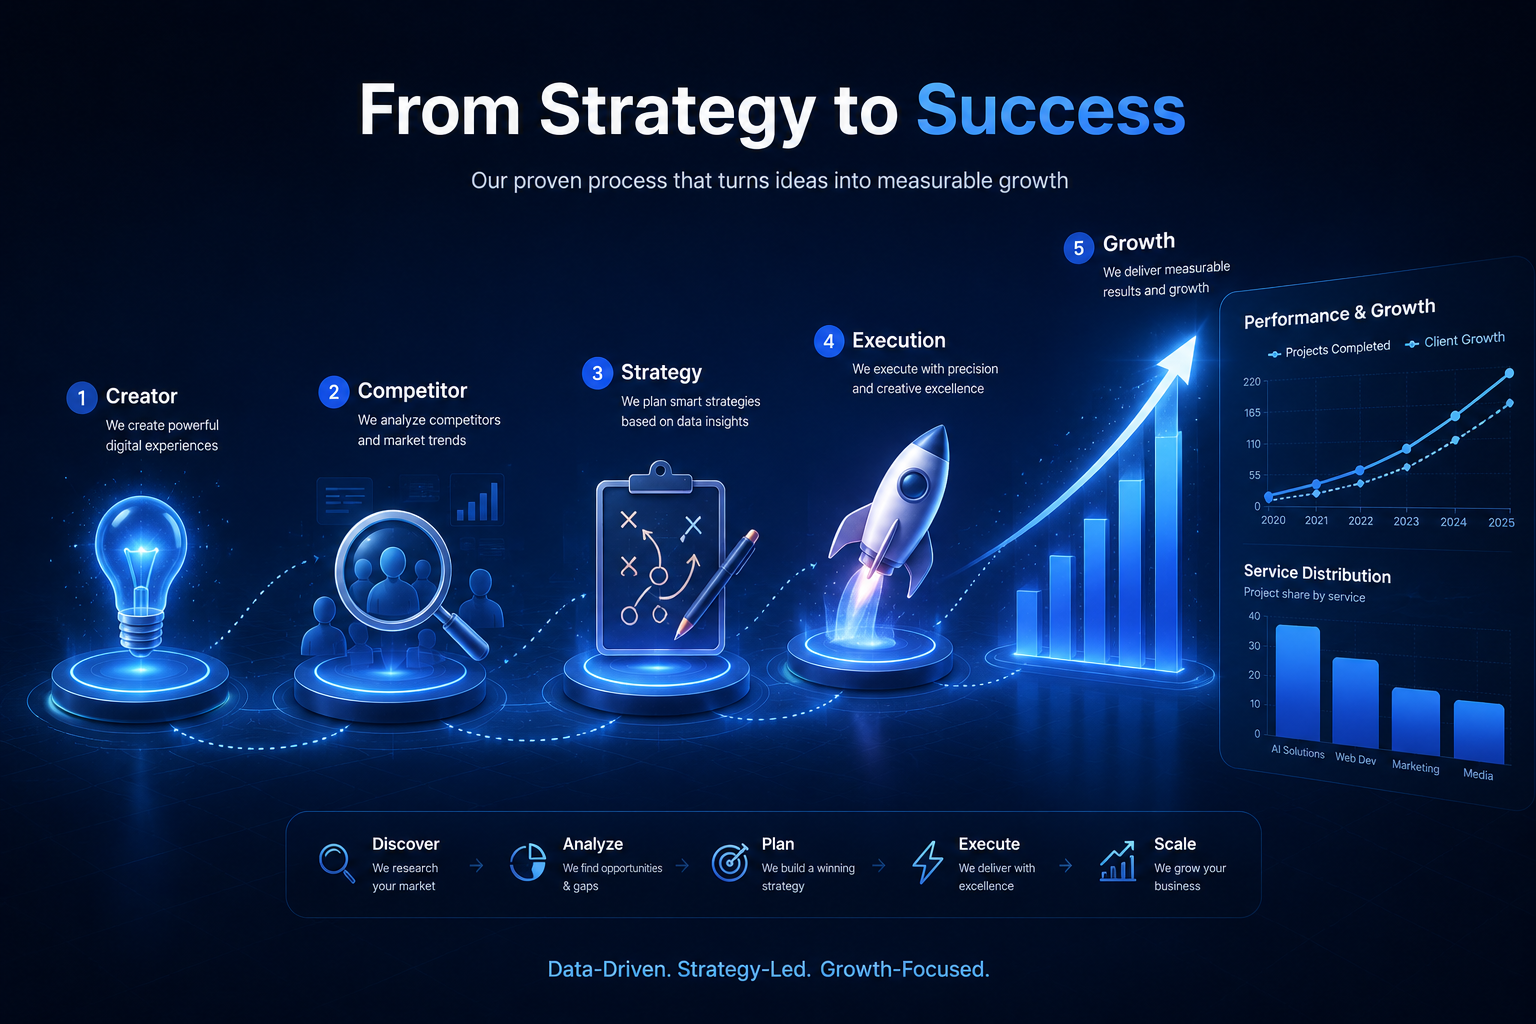
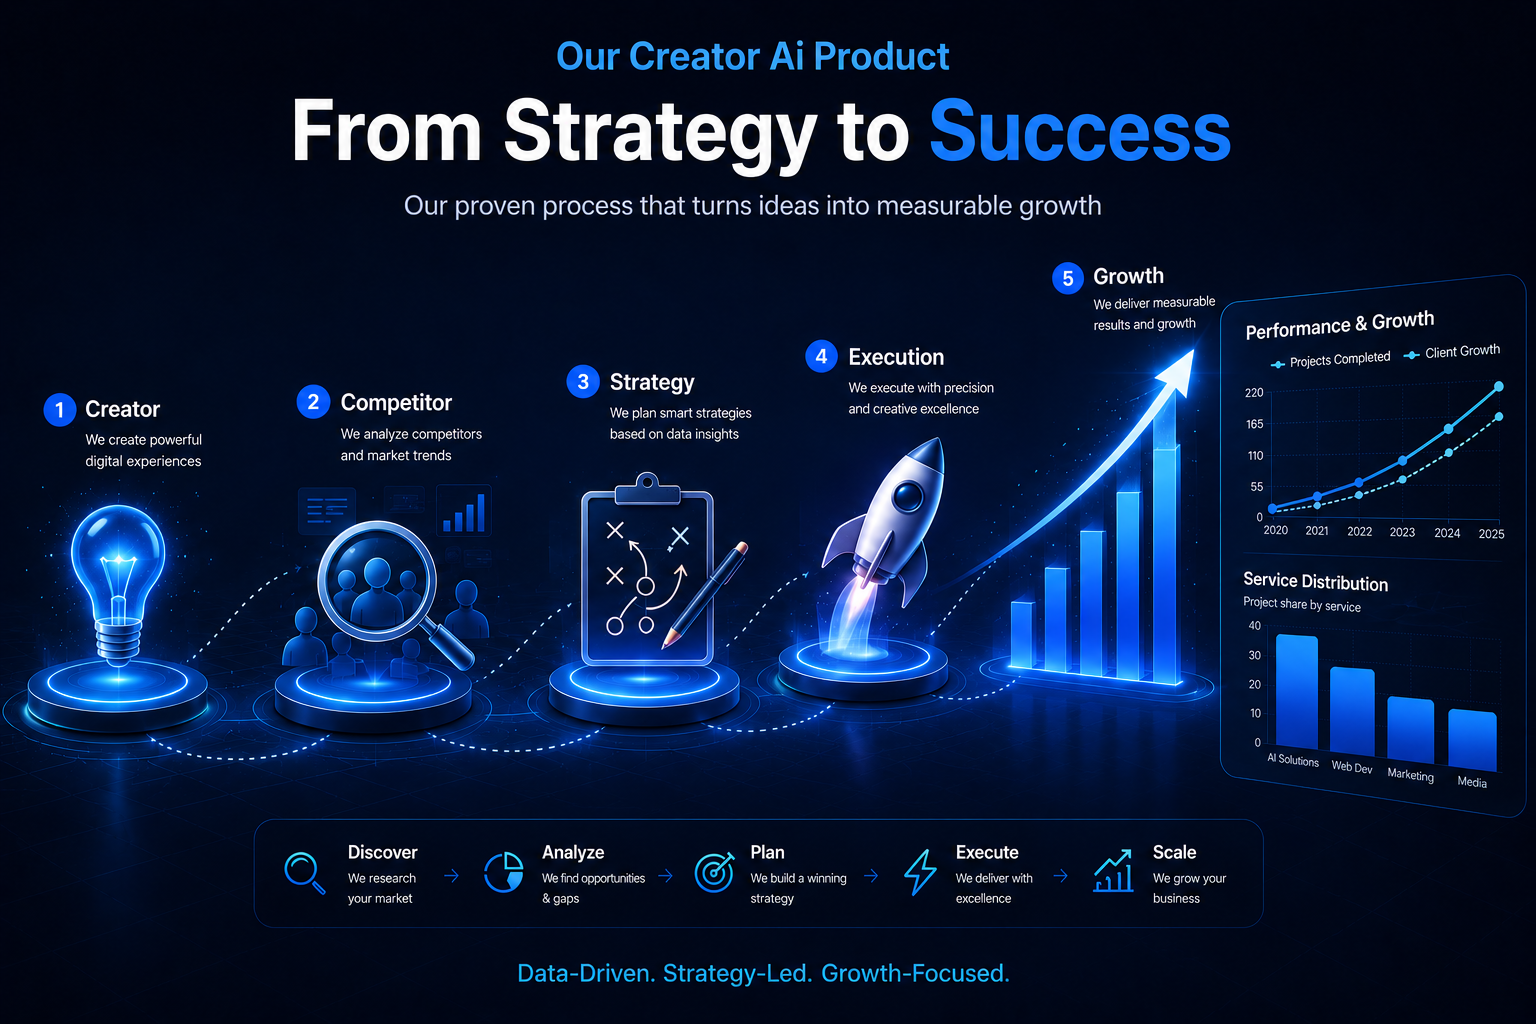
update homepage

diff --git a/src/components/Footer.tsx b/src/components/Footer.tsx
@@ -16,13 +16,22 @@ const footerLinks = [
 const Footer = () => (
   <footer className="relative overflow-hidden bg-foreground">
     <div className="h-1 gradient-primary" />
-    <div className="absolute left-1/2 top-0 h-24 w-96 -translate-x-1/2 bg-primary/10 blur-[80px] pointer-events-none" />
+    
+    {/* Ambient Glows */}
+    <div className="absolute left-1/4 top-0 h-40 w-96 -translate-y-1/2 bg-primary/10 blur-[100px] pointer-events-none" />
+    <div className="absolute right-1/4 bottom-0 h-40 w-96 translate-y-1/2 bg-secondary/10 blur-[120px] pointer-events-none" />
 
-    <div className="container relative mx-auto px-4 py-10">
-      <div className="mb-8 grid gap-8 lg:grid-cols-3">
-        {/* Column 1 */}
-        <div className="flex flex-col gap-5">
-          <img src={logo} alt="PIXLYT" className="h-8 w-auto object-contain self-start brightness-0 invert" />
+    <div className="container relative mx-auto px-4 py-12">
+      <div className="mb-10 grid gap-10 md:grid-cols-2 lg:grid-cols-3">
+        {/* Column 1 - Brand Info */}
+        <div className="flex flex-col gap-6">
+          <div className="relative group self-start">
+            <img 
+              src={logo} 
+              alt="PIXLYT" 
+              className="h-20 w-auto object-contain brightness-0 invert transition-all duration-300 group-hover:brightness-100 group-hover:invert-0" 
+            />
+          </div>
           <p className="max-w-xs text-sm leading-relaxed text-primary-foreground/70">
             AI-driven IT and Media company empowering brands through smart technology and storytelling.
           </p>
@@ -32,6 +41,7 @@ const Footer = () => (
               { icon: Instagram, label: "Instagram", href: "https://instagram.com" },
               { icon: Twitter, label: "Twitter", href: "https://twitter.com" },
               { icon: Youtube, label: "YouTube", href: "https://youtube.com" },
+              { icon: Facebook, label: "Facebook", href: "https://facebook.com" },
             ].map((s) => (
               <motion.a
                 key={s.label}
@@ -43,8 +53,8 @@ const Footer = () => (
                   event.preventDefault();
                   openExternalLink(s.href);
                 }}
-                whileHover={{ scale: 1.1, y: -2 }}
-                className="flex h-10 w-10 items-center justify-center rounded-lg border border-primary-foreground/10 bg-primary-foreground/5 text-primary-foreground/60 transition-all duration-300 hover:border-primary/40 hover:text-primary hover:shadow-glow"
+                whileHover={{ scale: 1.1, y: -3 }}
+                className="flex h-10 w-10 items-center justify-center rounded-xl border border-primary-foreground/10 bg-primary-foreground/5 text-primary-foreground/60 transition-all duration-300 hover:border-primary/40 hover:bg-primary/10 hover:text-primary hover:shadow-glow"
               >
                 <s.icon size={18} strokeWidth={1.5} />
               </motion.a>
@@ -52,70 +62,81 @@ const Footer = () => (
           </div>
         </div>
 
-        {/* Column 2 */}
-        <div>
-          <h4 className="mb-5 text-xs font-bold uppercase tracking-[0.2em] text-primary-foreground/40">Quick Links</h4>
-          <ul className="space-y-3">
+        {/* Column 2 - Quick Links */}
+        <div className="flex flex-col">
+          <div className="relative mb-6">
+            <h4 className="text-xs font-bold uppercase tracking-[0.2em] text-primary-foreground/40">Quick Links</h4>
+            <div className="absolute -bottom-2 left-0 h-0.5 w-8 gradient-primary rounded-full" />
+          </div>
+          <ul className="grid grid-cols-2 gap-x-2 gap-y-4 pt-2">
             {footerLinks.map((link) => (
               <li key={link.href}>
-                <a href={link.href} className="text-sm font-medium text-primary-foreground/80 transition-colors hover:text-primary">
-                  {link.label}
+                <a 
+                  href={link.href} 
+                  className="group flex items-center gap-2 text-sm font-medium text-primary-foreground/70 transition-all duration-300 hover:text-primary"
+                >
+                  <span className="h-1.5 w-1.5 rounded-full bg-primary opacity-0 scale-0 transition-all duration-300 group-hover:opacity-100 group-hover:scale-100" />
+                  <span className="transition-transform duration-300 group-hover:translate-x-1">
+                    {link.label}
+                  </span>
                 </a>
               </li>
             ))}
           </ul>
         </div>
 
-        {/* Column 3 */}
-        <div>
-          <h4 className="mb-5 text-xs font-bold uppercase tracking-[0.2em] text-primary-foreground/40">Get In Touch</h4>
+        {/* Column 3 - Contact Info */}
+        <div className="flex flex-col md:col-span-2 lg:col-span-1">
+          <div className="relative mb-6">
+            <h4 className="text-xs font-bold uppercase tracking-[0.2em] text-primary-foreground/40">Get In Touch</h4>
+            <div className="absolute -bottom-2 left-0 h-0.5 w-8 gradient-primary rounded-full" />
+          </div>
           
-          <div className="mb-4 rounded-2xl border border-primary-foreground/10 bg-primary-foreground/[0.02] p-3">
-            <div className="flex items-center gap-4 py-1.5">
-              <div className="flex h-10 w-10 shrink-0 items-center justify-center rounded-lg border border-primary-foreground/10 bg-primary-foreground/5 text-primary">
-                <Mail size={18} strokeWidth={1.5} />
+          <div className="mt-2 mb-5 rounded-2xl border border-primary-foreground/10 bg-gradient-to-br from-primary-foreground/[0.03] to-primary-foreground/[0.01] p-5 backdrop-blur-md transition-all duration-300 hover:border-primary/20 hover:shadow-glow-subtle">
+            <div className="grid gap-6 md:grid-cols-3 lg:grid-cols-1">
+              <div className="flex items-center gap-4 py-1">
+                <div className="flex h-10 w-10 shrink-0 items-center justify-center rounded-xl border border-primary-foreground/10 bg-primary-foreground/5 text-primary">
+                  <Mail size={18} strokeWidth={1.5} />
+                </div>
+                <div>
+                  <p className="mb-0.5 text-[10px] font-bold uppercase tracking-widest text-primary-foreground/40">Email</p>
+                  <a href="mailto:[email redacted]" className="text-sm font-medium text-primary-foreground/80 transition-colors hover:text-primary">
+                    [email redacted]
+                  </a>
+                </div>
               </div>
-              <div>
-                <p className="mb-0.5 text-[10px] font-bold uppercase tracking-widest text-primary-foreground/40">Email</p>
-                <a href="mailto:[email redacted]" className="text-sm font-medium text-primary-foreground/80 transition-colors hover:text-primary">
-                  [email redacted]
-                </a>
+              
+              <div className="flex items-center gap-4 py-1">
+                <div className="flex h-10 w-10 shrink-0 items-center justify-center rounded-xl border border-primary-foreground/10 bg-primary-foreground/5 text-primary">
+                  <Phone size={18} strokeWidth={1.5} />
+                </div>
+                <div>
+                  <p className="mb-0.5 text-[10px] font-bold uppercase tracking-widest text-primary-foreground/40">Phone</p>
+                  <a href="tel:[phone redacted]" className="text-sm font-medium text-primary-foreground/80 transition-colors hover:text-primary">
+                    [phone redacted]
+                  </a>
+                </div>
               </div>
-            </div>
-            
-            <div className="my-2 h-px w-full bg-primary-foreground/5" />
-            
-            <div className="flex items-center gap-4 py-1.5">
-              <div className="flex h-10 w-10 shrink-0 items-center justify-center rounded-lg border border-primary-foreground/10 bg-primary-foreground/5 text-primary">
-                <Phone size={18} strokeWidth={1.5} />
-              </div>
-              <div>
-                <p className="mb-0.5 text-[10px] font-bold uppercase tracking-widest text-primary-foreground/40">Phone</p>
-                <a href="tel:[phone redacted]" className="text-sm font-medium text-primary-foreground/80 transition-colors hover:text-primary">
-                  [phone redacted]
-                </a>
-              </div>
-            </div>
-
-            <div className="my-2 h-px w-full bg-primary-foreground/5" />
-            
-            <div className="flex items-center gap-4 py-1.5">
-              <div className="flex h-10 w-10 shrink-0 items-center justify-center rounded-lg border border-primary-foreground/10 bg-primary-foreground/5 text-primary">
-                <MapPin size={18} strokeWidth={1.5} />
-              </div>
-              <div>
-                <p className="mb-0.5 text-[10px] font-bold uppercase tracking-widest text-primary-foreground/40">Location</p>
-                <p className="text-sm font-medium text-primary-foreground/80">Vellore, Tamil Nadu, India</p>
+              
+              <div className="flex items-center gap-4 py-1">
+                <div className="flex h-10 w-10 shrink-0 items-center justify-center rounded-xl border border-primary-foreground/10 bg-primary-foreground/5 text-primary">
+                  <MapPin size={18} strokeWidth={1.5} />
+                </div>
+                <div>
+                  <p className="mb-0.5 text-[10px] font-bold uppercase tracking-widest text-primary-foreground/40">Location</p>
+                  <p className="text-sm font-medium text-primary-foreground/80">Bangalore, Karnataka, India</p>
+                  <p className="text-sm font-medium text-primary-foreground/80">Vellore, Tamil Nadu, India</p>
+                </div>
               </div>
             </div>
           </div>
 
           <a 
             href="/#contact" 
-            className="group flex w-full items-center justify-center gap-2 rounded-xl border border-primary-foreground/10 bg-primary-foreground/5 py-3.5 text-sm font-semibold text-primary-foreground transition-all hover:border-primary/30 hover:bg-primary/10"
+            className="group relative flex w-full items-center justify-center gap-2 overflow-hidden rounded-xl border border-primary/20 bg-primary/10 py-3.5 text-sm font-semibold text-primary transition-all duration-300 hover:bg-primary hover:text-primary-foreground hover:shadow-glow"
           >
             Let's Build Together 
-            <ArrowUpRight size={18} className="transition-transform group-hover:-translate-y-0.5 group-hover:translate-x-0.5" />
+            <ArrowUpRight size={18} className="transition-transform duration-300 group-hover:-translate-y-0.5 group-hover:translate-x-0.5" />
           </a>
         </div>
       </div>
@@ -124,6 +145,10 @@ const Footer = () => (
         <p className="text-sm text-primary-foreground/40">
           &copy; 2026 PIXLYT Digital Solutions Pvt Ltd. All rights reserved.
         </p>
+        <div className="flex gap-6 text-sm text-primary-foreground/40">
+          <a href="/#privacy" className="transition-colors hover:text-primary">Privacy Policy</a>
+          <a href="/#terms" className="transition-colors hover:text-primary">Terms of Service</a>
+        </div>
       </div>
     </div>
   </footer>

diff --git a/src/components/SocialMedia.tsx b/src/components/SocialMedia.tsx
@@ -1,4 +1,4 @@
-import { FaYoutube, FaInstagram, FaFacebookF } from "react-icons/fa";
+import { FaYoutube, FaInstagram, FaFacebookF, FaLinkedinIn, FaTwitter } from "react-icons/fa";
 import { motion } from "framer-motion";
 import AnimatedSection from "./AnimatedSection";
 import { openExternalLink } from "@/lib/openExternalLink";
@@ -31,6 +31,24 @@ const socials = [
     hoverShadow: "group-hover:shadow-blue-600/30",
     iconHover: "group-hover:text-white",
   },
+  {
+    icon: FaLinkedinIn,
+    label: "LinkedIn",
+    subtitle: "LinkedIn",
+    href: "https://linkedin.com",
+    hoverBg: "group-hover:bg-[#0077B5]",
+    hoverShadow: "group-hover:shadow-[#0077B5]/30",
+    iconHover: "group-hover:text-white",
+  },
+  {
+    icon: FaTwitter,
+    label: "Twitter",
+    subtitle: "Twitter",
+    href: "https://twitter.com",
+    hoverBg: "group-hover:bg-[#1DA1F2]",
+    hoverShadow: "group-hover:shadow-[#1DA1F2]/30",
+    iconHover: "group-hover:text-white",
+  },
 ];
 
 const SocialMedia = () => (
@@ -52,7 +70,7 @@ const SocialMedia = () => (
         </p>
       </AnimatedSection>
 
-      <div className="flex flex-wrap items-stretch justify-center gap-8 max-w-3xl mx-auto">
+      <div className="flex flex-wrap items-stretch justify-center gap-4 sm:gap-6 max-w-7xl mx-auto">
         {socials.map((s, i) => (
           <motion.button
             type="button"
@@ -64,7 +82,7 @@ const SocialMedia = () => (
             viewport={{ once: true, margin: "-60px" }}
             whileHover={{ y: -10, scale: 1.05 }}
             transition={{ type: "spring", stiffness: 300, delay: i * 0.12 }}
-            className="group flex flex-col items-center gap-5 p-10 glass-card rounded-2xl hover:shadow-card-hover border-glow transition-all duration-500 min-w-[220px] cursor-pointer"
+            className="group flex flex-col items-center gap-5 p-6 sm:p-8 glass-card rounded-2xl hover:shadow-card-hover border-glow transition-all duration-500 w-full sm:w-[180px] xl:w-[200px] cursor-pointer"
           >
             <div
               className={`rounded-2xl bg-muted flex items-center justify-center transition-all duration-500 ${s.hoverBg} ${s.hoverShadow} hover:shadow-lg group-hover:shadow-glow`}
@@ -72,7 +90,7 @@ const SocialMedia = () => (
             >
               <s.icon
                 size={32}
-                className={`text-muted-foreground ${s.iconHover} transition-colors duration-500`}
+                className={`text-muted-foreground ${s.iconHover} transition-all duration-500 group-hover:scale-110 group-hover:rotate-12`}
               />
             </div>
             <div className="text-center">

diff --git a/src/components/Media.tsx b/src/components/Media.tsx
@@ -16,6 +16,7 @@ const features = [
 const stats = [
   { icon: Youtube, value: "30K+", label: "Subscribers" },
   { icon: FaInstagram, value: "32K+", label: "Followers" },
+  { icon: FaFacebookF, value: "55K+", label: "Followers" },
   { icon: Eye, value: "19,733,498", label: "Overall Views" },
 ];
 
@@ -61,7 +62,7 @@ const Media = () => (
       </AnimatedSection>
 
       {/* Channel Stats */}
-      <div className="grid grid-cols-1 sm:grid-cols-3 gap-6 max-w-4xl mx-auto mb-20">
+      <div className="grid grid-cols-1 sm:grid-cols-2 lg:grid-cols-4 gap-6 max-w-5xl mx-auto mb-20">
         {stats.map((stat, i) => (
           <motion.div
             key={stat.label}
@@ -70,13 +71,19 @@ const Media = () => (
             viewport={{ once: true, margin: "-60px" }}
             transition={{ duration: 0.5, delay: i * 0.1 }}
             whileHover={{ y: -6, scale: 1.03 }}
-            className="glass-card rounded-2xl p-8 text-center border-glow shadow-card hover:shadow-card-hover transition-all duration-500"
+            className="glass-card rounded-2xl px-4 py-8 sm:px-6 lg:px-4 xl:px-8 text-center border-glow shadow-card hover:shadow-card-hover transition-all duration-500"
           >
             <div className="w-14 h-14 mx-auto mb-4 rounded-2xl gradient-primary flex items-center justify-center shadow-glow">
               <stat.icon className="text-primary-foreground" size={26} />
             </div>
-            <div className="font-heading text-4xl font-bold text-gradient mb-1">{stat.value}</div>
-            <div className="text-muted-foreground text-sm uppercase tracking-wider font-medium">{stat.label}</div>
+            <div className={`font-heading font-bold text-gradient mb-1 tracking-tight ${
+              stat.value.length > 6 
+                ? "text-2xl sm:text-3xl lg:text-xl xl:text-3xl" 
+                : "text-3xl sm:text-4xl"
+            }`}>
+              {stat.value}
+            </div>
+            <div className="text-muted-foreground text-xs sm:text-sm uppercase tracking-wider font-medium">{stat.label}</div>
           </motion.div>
         ))}
       </div>

diff --git a/src/components/Contact.tsx b/src/components/Contact.tsx
@@ -14,8 +14,8 @@ const supportCards = [
   {
     icon: MapPin,
     title: "Visit Us",
-    body: "Connect with us from Vellore, Tamil Nadu, India.",
-    lines: ["Vellore, Tamil Nadu, India"],
+    body: "Connect with us from Bangalore & Vellore, India.",
+    lines: ["Bangalore, Karnataka, India", "Vellore, Tamil Nadu, India"],
   },
   {
     icon: Mail,

diff --git a/src/components/Navbar.tsx b/src/components/Navbar.tsx
@@ -44,7 +44,7 @@ const Navbar = ({ forceSolid = false }: NavbarProps) => {
           <img
             src={logo}
             alt="PIXLYT Logo"
-            className={`h-9 w-auto transition-all duration-300 ${!isSolid ? "brightness-0 invert" : ""}`}
+            className={`h-20 w-auto transition-all duration-300 ${!isSolid ? "brightness-0 invert" : ""}`}
           />
         </a>
 

diff --git a/src/pages/Solutions.tsx b/src/pages/Solutions.tsx
@@ -1,5 +1,6 @@
 import { ArrowRight } from "lucide-react";
 import { Link } from "react-router-dom";
+import Contact from "@/components/Contact";
 import Footer from "@/components/Footer";
 import Navbar from "@/components/Navbar";
 import { featuredSolutions } from "@/data/solutions";
@@ -100,6 +101,7 @@ const Solutions = () => (
       </section>
     </main>
 
+    <Contact />
     <Footer />
   </div>
 );